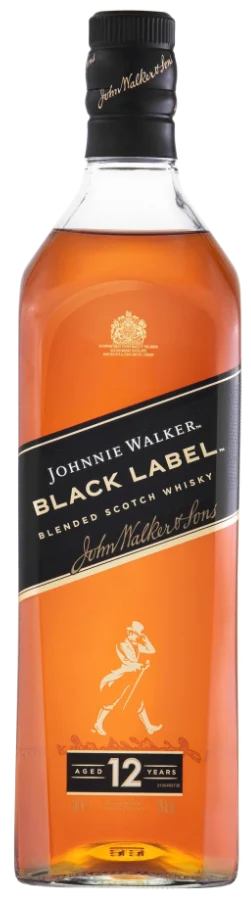
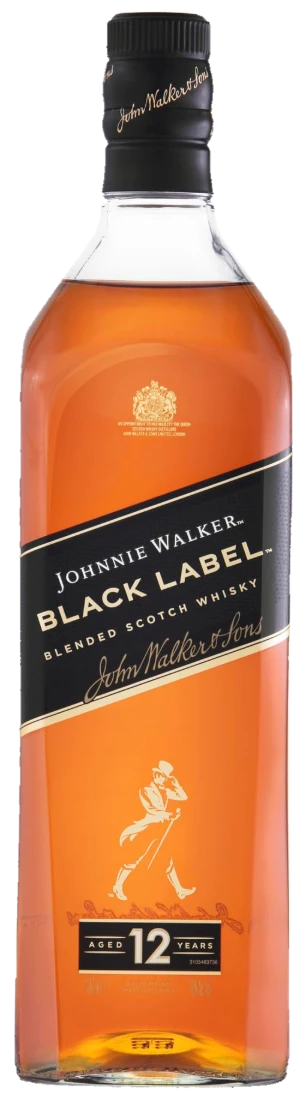
Troca de animação nos produtos

diff --git a/css/styles.css b/css/styles.css
@@ -369,7 +369,7 @@ fieldset { margin: 0; padding: 0; border: 0; min-width: 0; }
   background: radial-gradient(ellipse 80% 55% at 62% 26%, #0c4a99 0%, var(--navy) 46%, var(--navy-ink) 100%);
 }
 .vc-stage { position: absolute; inset: 0; z-index: 1; }
-.vc-glow { position: absolute; left: 6%; top: 4%; width: 70%; height: 46%; background: radial-gradient(closest-side, rgba(3, 173, 249, .35), transparent); filter: blur(6px); }
+.vc-glow { position: absolute; left: 2%; top: -2%; width: 76%; height: 64%; background: radial-gradient(closest-side, rgba(95, 208, 255, .62), rgba(3, 173, 249, .2) 58%, transparent); filter: blur(8px); }
 .vc-bottle { --bh: 560px; position: absolute; left: 14%; top: calc(31% - var(--nfc) * var(--bh)); height: var(--bh); aspect-ratio: var(--ar); filter: drop-shadow(0 30px 40px rgba(0, 0, 0, .5)); }
 .vc-bottle .shot { height: 100%; }
 .vc-bottle .neck-seal { animation: vcGlow 7s var(--ease) infinite; }
@@ -1550,8 +1550,8 @@ body.has-bagbar .toast { bottom: calc(92px + env(safe-area-inset-bottom, 0px)); 
   .promo-ui { left: 14px; right: 12px; bottom: 12px; }
   .promo-arrow { display: none; }
   .vs-card { height: 420px; border-radius: 20px; }
-  .vc-bottle { --bh: 520px; left: 16%; }
-  .vc-phone { right: 14%; }
+  .vc-bottle { --bh: 520px; left: 9%; }
+  .vc-phone { right: 22px; }
   .vc-ok { display: none; }
 
   .deliv-cep { grid-template-areas: "ic field btn" "info info info"; gap: 4px 12px; }

diff --git a/js/products.js b/js/products.js
@@ -28,7 +28,7 @@ window.VSD_PRODUCTS = [
   {
     id: 'jw-black', brand: 'Johnnie Walker', name: 'Black Label 12 anos', category: 'whisky',
     volume: '750 ml', abv: 40, origin: 'Escócia', price: 169.90, oldPrice: 189.90, badge: 'Mais vendido', featured: true,
-    img: P + 'jw-black.webp', size: [251, 900], seal: { y: .18, w: .15 },
+    img: P + 'jw-black.webp', size: [304, 1100], seal: { y: .18, w: .15 },
     gallery: [{ src: P + 'jw-black-box.webp', size: [385, 711], label: 'Com estojo' }],
     desc: 'Blend de whiskies envelhecidos por no mínimo 12 anos. Encorpado e equilibrado, com fumaça suave, baunilha e frutas escuras.',
     notes: ['Defumado suave', 'Baunilha', 'Frutas escuras']
